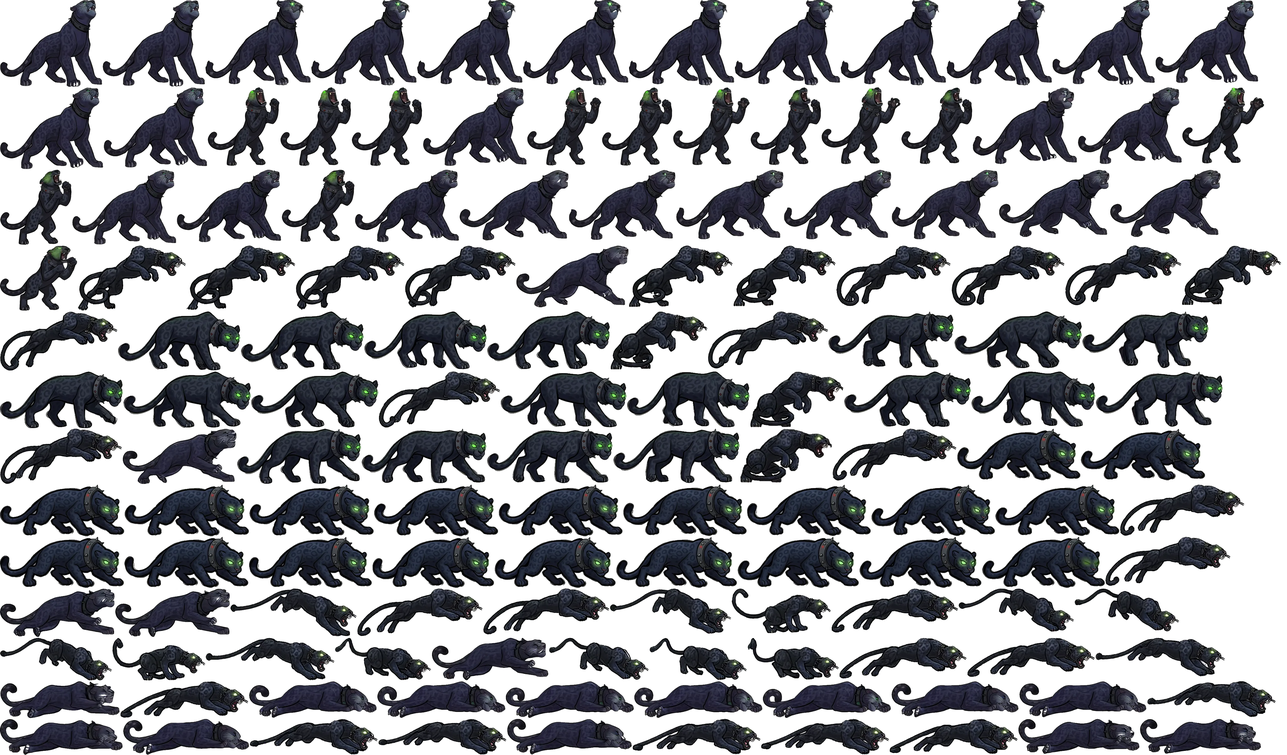
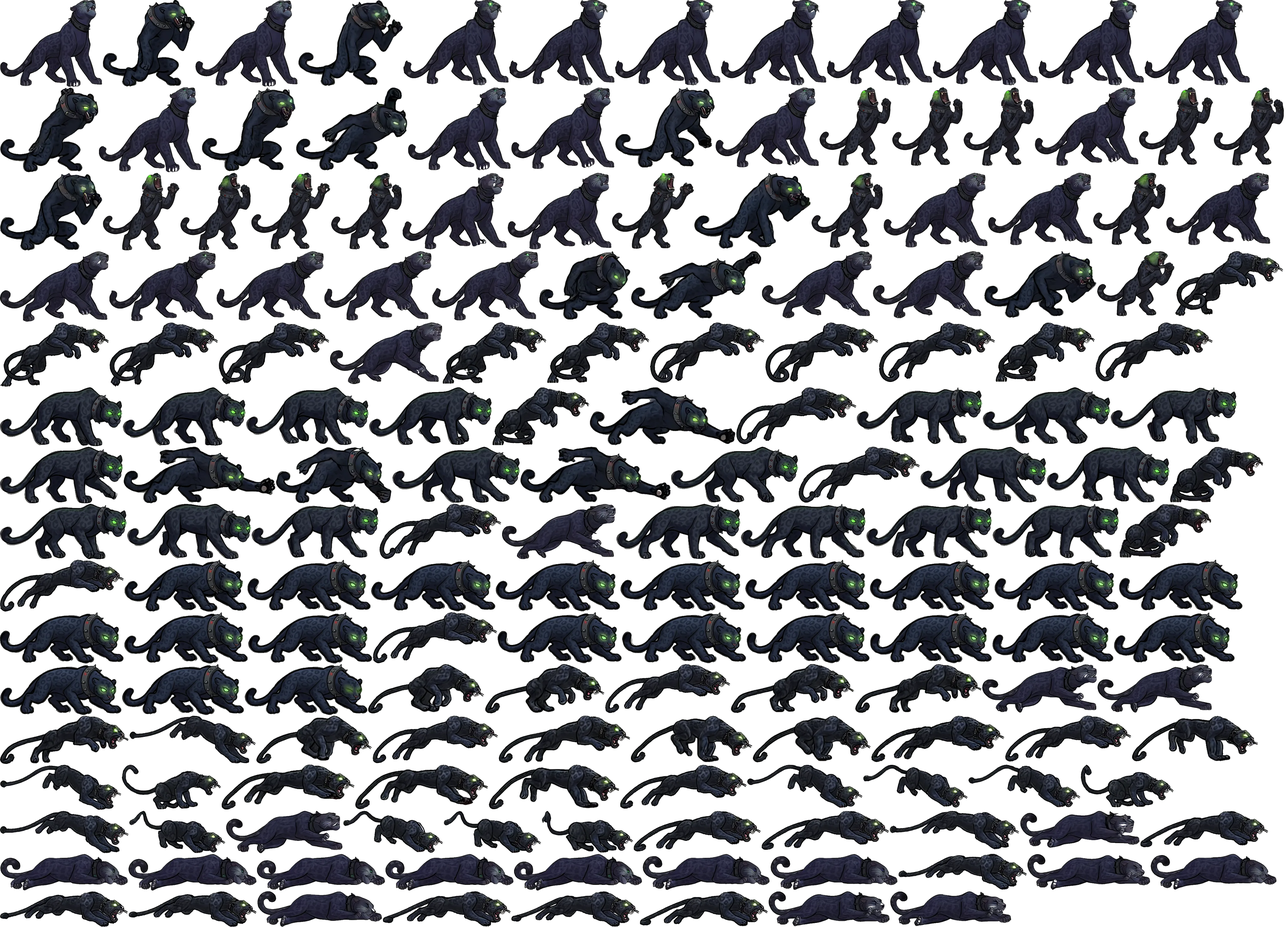
Shadow Prowler: a real gallop for the dash and the phase-two run, and a long claw swipe in the combo
Claude-Session: https://claude.ai/code/session_01Mgg2VZTQ5NrixhRbjjHuvz

diff --git a/src/game/prowlerAnimData.ts b/src/game/prowlerAnimData.ts
@@ -2,7 +2,7 @@
  * ax/ay is the middle of the body on the ground line, sized UP = 2.0 times the old painted frames (draw at k / UP). */
 import type { BossFrameRect } from './paintedBoss.ts';
 export const PROWLER_ANIM_UP = 2.0;
-export const PROWLER_ANIM_SIZE = { w: 4096, h: 2402 };
+export const PROWLER_ANIM_SIZE = { w: 4096, h: 2951 };
 /** the frame names of each move, in order */
-export const PROWLER_CLIPS = {"idle": ["idle_008", "idle_010", "idle_012", "idle_014", "idle_016", "idle_018", "idle_020", "idle_022", "idle_024", "idle_026", "idle_028", "idle_030", "idle_032", "idle_034", "idle_036", "idle_038", "idle_040", "idle_042", "idle_044", "idle_046"], "walk": ["walk_006", "walk_008", "walk_010", "walk_012", "walk_014", "walk_016", "walk_018", "walk_020", "walk_022", "walk_024", "walk_026", "walk_028", "walk_030", "walk_032", "walk_034", "walk_036", "walk_038", "walk_040", "walk_042"], "crouch": ["pounce_000", "pounce_001", "pounce_002", "pounce_003", "pounce_004", "pounce_005", "pounce_006"], "air": ["pounce_007", "pounce_008", "pounce_009", "pounce_010", "pounce_011", "pounce_012", "pounce_013", "pounce_014", "pounce_015", "pounce_016", "pounce_017", "pounce_018", "pounce_019", "pounce_020", "pounce_021", "pounce_022", "pounce_023", "pounce_024", "pounce_025", "pounce_026", "pounce_027", "pounce_028", "pounce_029", "pounce_030"], "land": ["pounce_031", "pounce_033", "pounce_035", "pounce_037", "pounce_039", "pounce_041", "pounce_043", "pounce_045", "pounce_047"], "dash": ["pounce_018", "pounce_020", "pounce_022", "pounce_024", "pounce_026", "pounce_028"], "bite": ["pounce_040", "pounce_042", "pounce_044", "pounce_046", "pounce_048"], "roar": ["roar_000", "roar_002", "roar_004", "roar_006", "roar_008", "roar_010", "roar_012", "roar_014", "roar_016", "roar_018", "roar_020", "roar_022", "roar_024"], "swipe": ["roar_004", "roar_006", "roar_008", "roar_010", "roar_012", "roar_014"], "hurt": ["hurt_000", "hurt_001", "hurt_002", "hurt_003", "hurt_004", "hurt_005", "hurt_006", "hurt_007", "hurt_008", "hurt_009", "hurt_010", "hurt_011", "hurt_012", "hurt_013"], "stagger": ["stagger_004", "stagger_006", "stagger_008", "stagger_010", "stagger_012", "stagger_014", "stagger_016", "stagger_018", "stagger_020"], "defeated": ["defeated_000", "defeated_001", "defeated_002", "defeated_003", "defeated_004", "defeated_005", "defeated_006", "defeated_007", "defeated_008", "defeated_009", "defeated_010", "defeated_011", "defeated_012", "defeated_013", "defeated_014", "defeated_015", "defeated_016", "defeated_017", "defeated_018", "defeated_019", "defeated_020", "defeated_021"]} as const satisfies Record<string, readonly string[]>;
-export const PROWLER_ANIM_FRAMES: Record<string, BossFrameRect> = {"defeated_000": {"x": 563, "y": 540, "w": 332, "h": 231, "ax": 198.4, "ay": 224.2}, "defeated_001": {"x": 1463, "y": 540, "w": 346, "h": 225, "ax": 208.4, "ay": 217.2}, "defeated_002": {"x": 3180, "y": 540, "w": 351, "h": 214, "ax": 210.4, "ay": 205.2}, "defeated_003": {"x": 3533, "y": 540, "w": 352, "h": 214, "ax": 211.4, "ay": 205.2}, "defeated_004": {"x": 1643, "y": 781, "w": 357, "h": 197, "ax": 213.4, "ay": 187.2}, "defeated_005": {"x": 390, "y": 1364, "w": 363, "h": 176, "ax": 221.4, "ay": 166.2}, "defeated_006": {"x": 0, "y": 1872, "w": 365, "h": 155, "ax": 227.4, "ay": 143.2}, "defeated_007": {"x": 367, "y": 1872, "w": 364, "h": 155, "ax": 227.4, "ay": 143.2}, "defeated_008": {"x": 1374, "y": 2029, "w": 371, "h": 135, "ax": 233.4, "ay": 121.2}, "defeated_009": {"x": 0, "y": 2167, "w": 381, "h": 118, "ax": 239.4, "ay": 103.2}, "defeated_010": {"x": 3628, "y": 2287, "w": 385, "h": 111, "ax": 242.4, "ay": 95.2}, "defeated_011": {"x": 3241, "y": 2287, "w": 385, "h": 112, "ax": 242.4, "ay": 95.2}, "defeated_012": {"x": 0, "y": 2287, "w": 390, "h": 115, "ax": 246.4, "ay": 94.2}, "defeated_013": {"x": 1614, "y": 2287, "w": 397, "h": 114, "ax": 250.4, "ay": 90.2}, "defeated_014": {"x": 392, "y": 2287, "w": 401, "h": 115, "ax": 253.4, "ay": 91.2}, "defeated_015": {"x": 2837, "y": 2167, "w": 405, "h": 116, "ax": 256.4, "ay": 92.2}, "defeated_016": {"x": 3244, "y": 2167, "w": 405, "h": 116, "ax": 256.4, "ay": 92.2}, "defeated_017": {"x": 792, "y": 2167, "w": 407, "h": 117, "ax": 258.4, "ay": 92.2}, "defeated_018": {"x": 1201, "y": 2167, "w": 407, "h": 117, "ax": 258.4, "ay": 92.2}, "defeated_019": {"x": 1610, "y": 2167, "w": 407, "h": 117, "ax": 258.4, "ay": 92.2}, "defeated_020": {"x": 2019, "y": 2167, "w": 407, "h": 117, "ax": 258.4, "ay": 92.2}, "defeated_021": {"x": 2428, "y": 2167, "w": 407, "h": 117, "ax": 258.4, "ay": 92.2}, "hurt_000": {"x": 1130, "y": 540, "w": 331, "h": 230, "ax": 198.5, "ay": 224.3}, "hurt_001": {"x": 1811, "y": 540, "w": 339, "h": 223, "ax": 198.5, "ay": 217.3}, "hurt_002": {"x": 2152, "y": 540, "w": 341, "h": 221, "ax": 199.5, "ay": 215.3}, "hurt_003": {"x": 2495, "y": 540, "w": 341, "h": 221, "ax": 199.5, "ay": 215.3}, "hurt_004": {"x": 2838, "y": 540, "w": 340, "h": 221, "ax": 199.5, "ay": 215.3}, "hurt_005": {"x": 3096, "y": 278, "w": 332, "h": 244, "ax": 199.5, "ay": 237.3}, "hurt_006": {"x": 654, "y": 0, "w": 335, "h": 272, "ax": 202.5, "ay": 261.3}, "hurt_007": {"x": 991, "y": 0, "w": 335, "h": 272, "ax": 202.5, "ay": 261.3}, "hurt_008": {"x": 1328, "y": 0, "w": 335, "h": 272, "ax": 202.5, "ay": 261.3}, "hurt_009": {"x": 1665, "y": 0, "w": 335, "h": 272, "ax": 202.5, "ay": 261.3}, "hurt_010": {"x": 2002, "y": 0, "w": 335, "h": 272, "ax": 202.5, "ay": 261.3}, "hurt_011": {"x": 2339, "y": 0, "w": 335, "h": 272, "ax": 202.5, "ay": 261.3}, "hurt_012": {"x": 2676, "y": 0, "w": 335, "h": 272, "ax": 202.5, "ay": 261.3}, "hurt_013": {"x": 3013, "y": 0, "w": 335, "h": 272, "ax": 202.5, "ay": 261.3}, "idle_008": {"x": 3046, "y": 1364, "w": 392, "h": 164, "ax": 219.8, "ay": 146.9}, "idle_010": {"x": 1983, "y": 1542, "w": 393, "h": 163, "ax": 220.8, "ay": 145.9}, "idle_012": {"x": 2378, "y": 1542, "w": 393, "h": 163, "ax": 220.8, "ay": 145.9}, "idle_014": {"x": 0, "y": 1708, "w": 394, "h": 162, "ax": 221.8, "ay": 144.9}, "idle_016": {"x": 396, "y": 1708, "w": 394, "h": 162, "ax": 221.8, "ay": 144.9}, "idle_018": {"x": 792, "y": 1708, "w": 391, "h": 162, "ax": 218.8, "ay": 144.9}, "idle_020": {"x": 1185, "y": 1708, "w": 387, "h": 162, "ax": 214.8, "ay": 144.9}, "idle_022": {"x": 1574, "y": 1708, "w": 385, "h": 162, "ax": 212.8, "ay": 144.9}, "idle_024": {"x": 1961, "y": 1708, "w": 384, "h": 162, "ax": 211.8, "ay": 144.9}, "idle_026": {"x": 2347, "y": 1708, "w": 386, "h": 162, "ax": 213.8, "ay": 144.9}, "idle_028": {"x": 2735, "y": 1708, "w": 388, "h": 162, "ax": 215.8, "ay": 144.9}, "idle_030": {"x": 3125, "y": 1708, "w": 391, "h": 162, "ax": 218.8, "ay": 144.9}, "idle_032": {"x": 2773, "y": 1542, "w": 393, "h": 163, "ax": 220.8, "ay": 145.9}, "idle_034": {"x": 3168, "y": 1542, "w": 394, "h": 163, "ax": 221.8, "ay": 145.9}, "idle_036": {"x": 3440, "y": 1364, "w": 395, "h": 164, "ax": 222.8, "ay": 146.9}, "idle_038": {"x": 0, "y": 1542, "w": 395, "h": 164, "ax": 222.8, "ay": 146.9}, "idle_040": {"x": 397, "y": 1542, "w": 395, "h": 164, "ax": 222.8, "ay": 146.9}, "idle_042": {"x": 794, "y": 1542, "w": 395, "h": 164, "ax": 222.8, "ay": 146.9}, "idle_044": {"x": 1191, "y": 1542, "w": 394, "h": 164, "ax": 221.8, "ay": 146.9}, "idle_046": {"x": 1587, "y": 1542, "w": 394, "h": 164, "ax": 221.8, "ay": 146.9}, "pounce_000": {"x": 2356, "y": 1364, "w": 292, "h": 171, "ax": 146.5, "ay": 167.0}, "pounce_001": {"x": 2388, "y": 1182, "w": 297, "h": 177, "ax": 147.5, "ay": 173.0}, "pounce_002": {"x": 1943, "y": 991, "w": 308, "h": 184, "ax": 152.5, "ay": 180.0}, "pounce_003": {"x": 3762, "y": 781, "w": 315, "h": 189, "ax": 155.5, "ay": 185.0}, "pounce_004": {"x": 2334, "y": 781, "w": 325, "h": 194, "ax": 160.5, "ay": 190.0}, "pounce_005": {"x": 2002, "y": 781, "w": 330, "h": 196, "ax": 162.5, "ay": 193.0}, "pounce_006": {"x": 593, "y": 781, "w": 347, "h": 205, "ax": 170.5, "ay": 202.0}, "pounce_007": {"x": 248, "y": 781, "w": 343, "h": 207, "ax": 165.5, "ay": 204.0}, "pounce_008": {"x": 942, "y": 781, "w": 345, "h": 205, "ax": 162.5, "ay": 207.0}, "pounce_009": {"x": 1289, "y": 781, "w": 352, "h": 198, "ax": 165.5, "ay": 210.0}, "pounce_010": {"x": 3028, "y": 781, "w": 360, "h": 192, "ax": 169.5, "ay": 213.0}, "pounce_011": {"x": 2661, "y": 781, "w": 365, "h": 193, "ax": 171.5, "ay": 215.0}, "pounce_012": {"x": 3390, "y": 781, "w": 370, "h": 190, "ax": 173.5, "ay": 218.0}, "pounce_013": {"x": 0, "y": 991, "w": 374, "h": 189, "ax": 175.5, "ay": 220.0}, "pounce_014": {"x": 2253, "y": 991, "w": 382, "h": 182, "ax": 180.5, "ay": 222.0}, "pounce_015": {"x": 1206, "y": 1182, "w": 386, "h": 178, "ax": 182.5, "ay": 223.0}, "pounce_016": {"x": 0, "y": 1364, "w": 388, "h": 176, "ax": 184.5, "ay": 223.0}, "pounce_017": {"x": 2650, "y": 1364, "w": 394, "h": 165, "ax": 189.5, "ay": 223.0}, "pounce_018": {"x": 3564, "y": 1542, "w": 396, "h": 163, "ax": 191.5, "ay": 223.0}, "pounce_019": {"x": 3518, "y": 1708, "w": 398, "h": 156, "ax": 193.5, "ay": 223.0}, "pounce_020": {"x": 1137, "y": 1872, "w": 399, "h": 152, "ax": 194.5, "ay": 223.0}, "pounce_021": {"x": 1538, "y": 1872, "w": 401, "h": 147, "ax": 196.5, "ay": 222.0}, "pounce_022": {"x": 2646, "y": 1872, "w": 403, "h": 141, "ax": 198.5, "ay": 221.0}, "pounce_023": {"x": 2672, "y": 2029, "w": 404, "h": 130, "ax": 199.5, "ay": 217.0}, "pounce_024": {"x": 3078, "y": 2029, "w": 406, "h": 125, "ax": 201.5, "ay": 215.0}, "pounce_025": {"x": 383, "y": 2167, "w": 407, "h": 117, "ax": 202.5, "ay": 212.0}, "pounce_026": {"x": 2831, "y": 2287, "w": 408, "h": 112, "ax": 203.5, "ay": 209.0}, "pounce_027": {"x": 2013, "y": 2287, "w": 407, "h": 113, "ax": 203.5, "ay": 205.0}, "pounce_028": {"x": 2422, "y": 2287, "w": 407, "h": 113, "ax": 203.5, "ay": 203.0}, "pounce_029": {"x": 795, "y": 2287, "w": 407, "h": 114, "ax": 203.5, "ay": 199.0}, "pounce_030": {"x": 1204, "y": 2287, "w": 408, "h": 114, "ax": 204.5, "ay": 196.0}, "pounce_031": {"x": 3651, "y": 2167, "w": 409, "h": 115, "ax": 206.5, "ay": 188.0}, "pounce_033": {"x": 3486, "y": 2029, "w": 413, "h": 123, "ax": 209.5, "ay": 182.0}, "pounce_035": {"x": 655, "y": 2029, "w": 409, "h": 135, "ax": 209.5, "ay": 179.0}, "pounce_037": {"x": 733, "y": 1872, "w": 402, "h": 153, "ax": 209.5, "ay": 172.0}, "pounce_039": {"x": 1941, "y": 1872, "w": 386, "h": 145, "ax": 199.5, "ay": 163.0}, "pounce_040": {"x": 3051, "y": 1872, "w": 367, "h": 138, "ax": 187.5, "ay": 156.0}, "pounce_041": {"x": 0, "y": 2029, "w": 356, "h": 136, "ax": 179.5, "ay": 154.0}, "pounce_042": {"x": 3420, "y": 1872, "w": 333, "h": 137, "ax": 158.5, "ay": 152.0}, "pounce_043": {"x": 1747, "y": 2029, "w": 318, "h": 134, "ax": 142.5, "ay": 151.0}, "pounce_044": {"x": 2067, "y": 2029, "w": 310, "h": 134, "ax": 131.5, "ay": 155.0}, "pounce_045": {"x": 1066, "y": 2029, "w": 306, "h": 135, "ax": 125.5, "ay": 156.0}, "pounce_046": {"x": 2379, "y": 2029, "w": 291, "h": 133, "ax": 108.5, "ay": 156.0}, "pounce_047": {"x": 358, "y": 2029, "w": 295, "h": 136, "ax": 106.5, "ay": 160.0}, "pounce_048": {"x": 2329, "y": 1872, "w": 315, "h": 143, "ax": 121.5, "ay": 167.0}, "roar_000": {"x": 3763, "y": 278, "w": 260, "h": 242, "ax": 144.1, "ay": 239.1}, "roar_002": {"x": 2615, "y": 278, "w": 251, "h": 244, "ax": 143.1, "ay": 241.1}, "roar_004": {"x": 2142, "y": 278, "w": 244, "h": 247, "ax": 143.1, "ay": 244.1}, "roar_006": {"x": 1678, "y": 278, "w": 236, "h": 249, "ax": 142.1, "ay": 245.1}, "roar_008": {"x": 661, "y": 278, "w": 229, "h": 250, "ax": 142.1, "ay": 246.1}, "roar_010": {"x": 892, "y": 278, "w": 225, "h": 250, "ax": 142.1, "ay": 246.1}, "roar_012": {"x": 1119, "y": 278, "w": 225, "h": 250, "ax": 142.1, "ay": 246.1}, "roar_014": {"x": 1916, "y": 278, "w": 224, "h": 249, "ax": 141.1, "ay": 245.1}, "roar_016": {"x": 2388, "y": 278, "w": 225, "h": 247, "ax": 142.1, "ay": 243.1}, "roar_018": {"x": 2868, "y": 278, "w": 226, "h": 244, "ax": 142.1, "ay": 240.1}, "roar_020": {"x": 0, "y": 540, "w": 228, "h": 239, "ax": 142.1, "ay": 235.1}, "roar_022": {"x": 897, "y": 540, "w": 231, "h": 230, "ax": 142.1, "ay": 226.1}, "roar_024": {"x": 0, "y": 781, "w": 246, "h": 208, "ax": 145.1, "ay": 204.1}, "stagger_004": {"x": 230, "y": 540, "w": 331, "h": 238, "ax": 198.2, "ay": 231.3}, "stagger_006": {"x": 3430, "y": 278, "w": 331, "h": 244, "ax": 198.2, "ay": 237.3}, "stagger_008": {"x": 1346, "y": 278, "w": 330, "h": 250, "ax": 197.2, "ay": 243.3}, "stagger_010": {"x": 330, "y": 278, "w": 329, "h": 255, "ax": 196.2, "ay": 248.3}, "stagger_012": {"x": 0, "y": 278, "w": 328, "h": 260, "ax": 195.2, "ay": 253.3}, "stagger_014": {"x": 3677, "y": 0, "w": 327, "h": 264, "ax": 194.2, "ay": 257.3}, "stagger_016": {"x": 3350, "y": 0, "w": 325, "h": 270, "ax": 192.2, "ay": 261.3}, "stagger_018": {"x": 327, "y": 0, "w": 325, "h": 275, "ax": 192.2, "ay": 266.3}, "stagger_020": {"x": 0, "y": 0, "w": 325, "h": 276, "ax": 192.2, "ay": 267.3}, "walk_006": {"x": 2637, "y": 991, "w": 399, "h": 181, "ax": 220.7, "ay": 166.2}, "walk_008": {"x": 3445, "y": 991, "w": 401, "h": 180, "ax": 223.7, "ay": 164.2}, "walk_010": {"x": 2687, "y": 1182, "w": 403, "h": 176, "ax": 225.7, "ay": 165.2}, "walk_012": {"x": 800, "y": 1182, "w": 404, "h": 178, "ax": 226.7, "ay": 167.2}, "walk_014": {"x": 3038, "y": 991, "w": 405, "h": 181, "ax": 227.7, "ay": 168.2}, "walk_016": {"x": 393, "y": 1182, "w": 405, "h": 179, "ax": 226.7, "ay": 166.2}, "walk_018": {"x": 1594, "y": 1182, "w": 400, "h": 177, "ax": 220.7, "ay": 162.2}, "walk_020": {"x": 3092, "y": 1182, "w": 394, "h": 176, "ax": 215.7, "ay": 159.2}, "walk_022": {"x": 1996, "y": 1182, "w": 390, "h": 177, "ax": 212.7, "ay": 160.2}, "walk_024": {"x": 1160, "y": 991, "w": 389, "h": 184, "ax": 212.7, "ay": 166.2}, "walk_026": {"x": 376, "y": 991, "w": 389, "h": 187, "ax": 213.7, "ay": 170.2}, "walk_028": {"x": 767, "y": 991, "w": 391, "h": 186, "ax": 215.7, "ay": 171.2}, "walk_030": {"x": 1551, "y": 991, "w": 390, "h": 184, "ax": 215.7, "ay": 169.2}, "walk_032": {"x": 0, "y": 1182, "w": 391, "h": 180, "ax": 215.7, "ay": 166.2}, "walk_034": {"x": 755, "y": 1364, "w": 394, "h": 175, "ax": 215.7, "ay": 161.2}, "walk_036": {"x": 1151, "y": 1364, "w": 397, "h": 173, "ax": 216.7, "ay": 160.2}, "walk_038": {"x": 1550, "y": 1364, "w": 400, "h": 173, "ax": 218.7, "ay": 160.2}, "walk_040": {"x": 1952, "y": 1364, "w": 402, "h": 173, "ax": 220.7, "ay": 160.2}, "walk_042": {"x": 3488, "y": 1182, "w": 404, "h": 176, "ax": 222.7, "ay": 161.2}};
+export const PROWLER_CLIPS = {"idle": ["idle_008", "idle_010", "idle_012", "idle_014", "idle_016", "idle_018", "idle_020", "idle_022", "idle_024", "idle_026", "idle_028", "idle_030", "idle_032", "idle_034", "idle_036", "idle_038", "idle_040", "idle_042", "idle_044", "idle_046"], "walk": ["walk_006", "walk_008", "walk_010", "walk_012", "walk_014", "walk_016", "walk_018", "walk_020", "walk_022", "walk_024", "walk_026", "walk_028", "walk_030", "walk_032", "walk_034", "walk_036", "walk_038", "walk_040", "walk_042"], "crouch": ["pounce_000", "pounce_001", "pounce_002", "pounce_003", "pounce_004", "pounce_005", "pounce_006"], "air": ["pounce_007", "pounce_008", "pounce_009", "pounce_010", "pounce_011", "pounce_012", "pounce_013", "pounce_014", "pounce_015", "pounce_016", "pounce_017", "pounce_018", "pounce_019", "pounce_020", "pounce_021", "pounce_022", "pounce_023", "pounce_024", "pounce_025", "pounce_026", "pounce_027", "pounce_028", "pounce_029", "pounce_030"], "land": ["pounce_031", "pounce_033", "pounce_035", "pounce_037", "pounce_039", "pounce_041", "pounce_043", "pounce_045", "pounce_047"], "dash": ["gallop11_000", "gallop11_002", "gallop11_004", "gallop11_006", "gallop11_008", "gallop11_010", "gallop11_012", "gallop11_014", "gallop11_016", "gallop11_018", "gallop11_020", "gallop11_022", "gallop11_024", "gallop11_026"], "claw": ["swat3_003", "swat3_004", "swat3_005", "swat3_006", "swat3_007", "swat3_008", "swat3_009", "swat3_010", "swat3_011", "swat3_012"], "bite": ["pounce_040", "pounce_042", "pounce_044", "pounce_046", "pounce_048"], "roar": ["roar_000", "roar_002", "roar_004", "roar_006", "roar_008", "roar_010", "roar_012", "roar_014", "roar_016", "roar_018", "roar_020", "roar_022", "roar_024"], "swipe": ["swat3_026", "swat3_028", "swat3_030", "swat3_032", "swat3_034", "swat3_036"], "hurt": ["hurt_000", "hurt_001", "hurt_002", "hurt_003", "hurt_004", "hurt_005", "hurt_006", "hurt_007", "hurt_008", "hurt_009", "hurt_010", "hurt_011", "hurt_012", "hurt_013"], "stagger": ["stagger_004", "stagger_006", "stagger_008", "stagger_010", "stagger_012", "stagger_014", "stagger_016", "stagger_018", "stagger_020"], "defeated": ["defeated_000", "defeated_001", "defeated_002", "defeated_003", "defeated_004", "defeated_005", "defeated_006", "defeated_007", "defeated_008", "defeated_009", "defeated_010", "defeated_011", "defeated_012", "defeated_013", "defeated_014", "defeated_015", "defeated_016", "defeated_017", "defeated_018", "defeated_019", "defeated_020", "defeated_021"]} as const satisfies Record<string, readonly string[]>;
+export const PROWLER_ANIM_FRAMES: Record<string, BossFrameRect> = {"defeated_000": {"x": 3145, "y": 550, "w": 332, "h": 231, "ax": 198.4, "ay": 224.2}, "defeated_001": {"x": 0, "y": 799, "w": 346, "h": 225, "ax": 208.4, "ay": 217.2}, "defeated_002": {"x": 2425, "y": 799, "w": 351, "h": 214, "ax": 210.4, "ay": 205.2}, "defeated_003": {"x": 2778, "y": 799, "w": 352, "h": 214, "ax": 211.4, "ay": 205.2}, "defeated_004": {"x": 1050, "y": 1026, "w": 357, "h": 197, "ax": 213.4, "ay": 187.2}, "defeated_005": {"x": 1597, "y": 1604, "w": 363, "h": 176, "ax": 221.4, "ay": 166.2}, "defeated_006": {"x": 3126, "y": 2114, "w": 365, "h": 155, "ax": 227.4, "ay": 143.2}, "defeated_007": {"x": 3493, "y": 2114, "w": 364, "h": 155, "ax": 227.4, "ay": 143.2}, "defeated_008": {"x": 719, "y": 2581, "w": 371, "h": 135, "ax": 233.4, "ay": 121.2}, "defeated_009": {"x": 3246, "y": 2581, "w": 381, "h": 118, "ax": 239.4, "ay": 103.2}, "defeated_010": {"x": 2833, "y": 2837, "w": 385, "h": 111, "ax": 242.4, "ay": 95.2}, "defeated_011": {"x": 2446, "y": 2837, "w": 385, "h": 112, "ax": 242.4, "ay": 95.2}, "defeated_012": {"x": 3270, "y": 2718, "w": 390, "h": 115, "ax": 246.4, "ay": 94.2}, "defeated_013": {"x": 819, "y": 2837, "w": 397, "h": 114, "ax": 250.4, "ay": 90.2}, "defeated_014": {"x": 3662, "y": 2718, "w": 401, "h": 115, "ax": 253.4, "ay": 91.2}, "defeated_015": {"x": 2045, "y": 2718, "w": 405, "h": 116, "ax": 256.4, "ay": 92.2}, "defeated_016": {"x": 2452, "y": 2718, "w": 405, "h": 116, "ax": 256.4, "ay": 92.2}, "defeated_017": {"x": 0, "y": 2718, "w": 407, "h": 117, "ax": 258.4, "ay": 92.2}, "defeated_018": {"x": 409, "y": 2718, "w": 407, "h": 117, "ax": 258.4, "ay": 92.2}, "defeated_019": {"x": 818, "y": 2718, "w": 407, "h": 117, "ax": 258.4, "ay": 92.2}, "defeated_020": {"x": 1227, "y": 2718, "w": 407, "h": 117, "ax": 258.4, "ay": 92.2}, "defeated_021": {"x": 1636, "y": 2718, "w": 407, "h": 117, "ax": 258.4, "ay": 92.2}, "gallop11_000": {"x": 2773, "y": 2278, "w": 424, "h": 148, "ax": 224.9, "ay": 148.8}, "gallop11_002": {"x": 705, "y": 2434, "w": 423, "h": 143, "ax": 219.9, "ay": 144.8}, "gallop11_004": {"x": 1130, "y": 2434, "w": 423, "h": 142, "ax": 217.9, "ay": 143.8}, "gallop11_006": {"x": 1555, "y": 2434, "w": 416, "h": 142, "ax": 217.9, "ay": 143.8}, "gallop11_008": {"x": 3602, "y": 2278, "w": 402, "h": 146, "ax": 216.9, "ay": 146.8}, "gallop11_010": {"x": 2007, "y": 2278, "w": 387, "h": 149, "ax": 215.9, "ay": 149.8}, "gallop11_012": {"x": 2396, "y": 2278, "w": 375, "h": 149, "ax": 213.9, "ay": 149.8}, "gallop11_014": {"x": 816, "y": 2278, "w": 368, "h": 153, "ax": 213.9, "ay": 153.8}, "gallop11_016": {"x": 1171, "y": 2114, "w": 370, "h": 157, "ax": 217.9, "ay": 156.8}, "gallop11_018": {"x": 1543, "y": 2114, "w": 381, "h": 157, "ax": 222.9, "ay": 156.8}, "gallop11_020": {"x": 2326, "y": 2114, "w": 394, "h": 156, "ax": 224.9, "ay": 155.8}, "gallop11_022": {"x": 2722, "y": 2114, "w": 402, "h": 155, "ax": 225.9, "ay": 155.8}, "gallop11_024": {"x": 0, "y": 2278, "w": 410, "h": 154, "ax": 225.9, "ay": 154.8}, "gallop11_026": {"x": 1587, "y": 2278, "w": 418, "h": 151, "ax": 225.9, "ay": 151.8}, "hurt_000": {"x": 3712, "y": 550, "w": 331, "h": 230, "ax": 198.5, "ay": 224.3}, "hurt_001": {"x": 348, "y": 799, "w": 339, "h": 223, "ax": 198.5, "ay": 217.3}, "hurt_002": {"x": 689, "y": 799, "w": 341, "h": 221, "ax": 199.5, "ay": 215.3}, "hurt_003": {"x": 1032, "y": 799, "w": 341, "h": 221, "ax": 199.5, "ay": 215.3}, "hurt_004": {"x": 1375, "y": 799, "w": 340, "h": 221, "ax": 199.5, "ay": 215.3}, "hurt_005": {"x": 1281, "y": 550, "w": 332, "h": 244, "ax": 199.5, "ay": 237.3}, "hurt_006": {"x": 1284, "y": 0, "w": 335, "h": 272, "ax": 202.5, "ay": 261.3}, "hurt_007": {"x": 1621, "y": 0, "w": 335, "h": 272, "ax": 202.5, "ay": 261.3}, "hurt_008": {"x": 1958, "y": 0, "w": 335, "h": 272, "ax": 202.5, "ay": 261.3}, "hurt_009": {"x": 2295, "y": 0, "w": 335, "h": 272, "ax": 202.5, "ay": 261.3}, "hurt_010": {"x": 2632, "y": 0, "w": 335, "h": 272, "ax": 202.5, "ay": 261.3}, "hurt_011": {"x": 2969, "y": 0, "w": 335, "h": 272, "ax": 202.5, "ay": 261.3}, "hurt_012": {"x": 3306, "y": 0, "w": 335, "h": 272, "ax": 202.5, "ay": 261.3}, "hurt_013": {"x": 3643, "y": 0, "w": 335, "h": 272, "ax": 202.5, "ay": 261.3}, "idle_008": {"x": 787, "y": 1782, "w": 392, "h": 164, "ax": 219.8, "ay": 146.9}, "idle_010": {"x": 3561, "y": 1782, "w": 393, "h": 163, "ax": 220.8, "ay": 145.9}, "idle_012": {"x": 0, "y": 1949, "w": 393, "h": 163, "ax": 220.8, "ay": 145.9}, "idle_014": {"x": 1584, "y": 1949, "w": 394, "h": 162, "ax": 221.8, "ay": 144.9}, "idle_016": {"x": 1980, "y": 1949, "w": 394, "h": 162, "ax": 221.8, "ay": 144.9}, "idle_018": {"x": 2376, "y": 1949, "w": 391, "h": 162, "ax": 218.8, "ay": 144.9}, "idle_020": {"x": 2769, "y": 1949, "w": 387, "h": 162, "ax": 214.8, "ay": 144.9}, "idle_022": {"x": 3158, "y": 1949, "w": 385, "h": 162, "ax": 212.8, "ay": 144.9}, "idle_024": {"x": 3545, "y": 1949, "w": 384, "h": 162, "ax": 211.8, "ay": 144.9}, "idle_026": {"x": 0, "y": 2114, "w": 386, "h": 162, "ax": 213.8, "ay": 144.9}, "idle_028": {"x": 388, "y": 2114, "w": 388, "h": 162, "ax": 215.8, "ay": 144.9}, "idle_030": {"x": 778, "y": 2114, "w": 391, "h": 162, "ax": 218.8, "ay": 144.9}, "idle_032": {"x": 395, "y": 1949, "w": 393, "h": 163, "ax": 220.8, "ay": 145.9}, "idle_034": {"x": 790, "y": 1949, "w": 394, "h": 163, "ax": 221.8, "ay": 145.9}, "idle_036": {"x": 1181, "y": 1782, "w": 395, "h": 164, "ax": 222.8, "ay": 146.9}, "idle_038": {"x": 1578, "y": 1782, "w": 395, "h": 164, "ax": 222.8, "ay": 146.9}, "idle_040": {"x": 1975, "y": 1782, "w": 395, "h": 164, "ax": 222.8, "ay": 146.9}, "idle_042": {"x": 2372, "y": 1782, "w": 395, "h": 164, "ax": 222.8, "ay": 146.9}, "idle_044": {"x": 2769, "y": 1782, "w": 394, "h": 164, "ax": 221.8, "ay": 146.9}, "idle_046": {"x": 3165, "y": 1782, "w": 394, "h": 164, "ax": 221.8, "ay": 146.9}, "pounce_000": {"x": 3563, "y": 1604, "w": 292, "h": 171, "ax": 146.5, "ay": 167.0}, "pounce_001": {"x": 3724, "y": 1422, "w": 297, "h": 177, "ax": 147.5, "ay": 173.0}, "pounce_002": {"x": 1567, "y": 1233, "w": 308, "h": 184, "ax": 152.5, "ay": 180.0}, "pounce_003": {"x": 3169, "y": 1026, "w": 315, "h": 189, "ax": 155.5, "ay": 185.0}, "pounce_004": {"x": 1741, "y": 1026, "w": 325, "h": 194, "ax": 160.5, "ay": 190.0}, "pounce_005": {"x": 1409, "y": 1026, "w": 330, "h": 196, "ax": 162.5, "ay": 193.0}, "pounce_006": {"x": 0, "y": 1026, "w": 347, "h": 205, "ax": 170.5, "ay": 202.0}, "pounce_007": {"x": 3740, "y": 799, "w": 343, "h": 207, "ax": 165.5, "ay": 204.0}, "pounce_008": {"x": 349, "y": 1026, "w": 345, "h": 205, "ax": 162.5, "ay": 207.0}, "pounce_009": {"x": 696, "y": 1026, "w": 352, "h": 198, "ax": 165.5, "ay": 210.0}, "pounce_010": {"x": 2435, "y": 1026, "w": 360, "h": 192, "ax": 169.5, "ay": 213.0}, "pounce_011": {"x": 2068, "y": 1026, "w": 365, "h": 193, "ax": 171.5, "ay": 215.0}, "pounce_012": {"x": 2797, "y": 1026, "w": 370, "h": 190, "ax": 173.5, "ay": 218.0}, "pounce_013": {"x": 3486, "y": 1026, "w": 374, "h": 189, "ax": 175.5, "ay": 220.0}, "pounce_014": {"x": 2343, "y": 1233, "w": 382, "h": 182, "ax": 180.5, "ay": 222.0}, "pounce_015": {"x": 2542, "y": 1422, "w": 386, "h": 178, "ax": 182.5, "ay": 223.0}, "pounce_016": {"x": 1207, "y": 1604, "w": 388, "h": 176, "ax": 184.5, "ay": 223.0}, "pounce_017": {"x": 0, "y": 1782, "w": 394, "h": 165, "ax": 189.5, "ay": 223.0}, "pounce_018": {"x": 1186, "y": 1949, "w": 396, "h": 163, "ax": 191.5, "ay": 223.0}, "pounce_019": {"x": 1926, "y": 2114, "w": 398, "h": 156, "ax": 193.5, "ay": 223.0}, "pounce_020": {"x": 1186, "y": 2278, "w": 399, "h": 152, "ax": 194.5, "ay": 223.0}, "pounce_021": {"x": 3199, "y": 2278, "w": 401, "h": 147, "ax": 196.5, "ay": 222.0}, "pounce_022": {"x": 1973, "y": 2434, "w": 403, "h": 141, "ax": 198.5, "ay": 221.0}, "pounce_023": {"x": 2017, "y": 2581, "w": 404, "h": 130, "ax": 199.5, "ay": 217.0}, "pounce_024": {"x": 2423, "y": 2581, "w": 406, "h": 125, "ax": 201.5, "ay": 215.0}, "pounce_025": {"x": 3629, "y": 2581, "w": 407, "h": 117, "ax": 202.5, "ay": 212.0}, "pounce_026": {"x": 2036, "y": 2837, "w": 408, "h": 112, "ax": 203.5, "ay": 209.0}, "pounce_027": {"x": 1218, "y": 2837, "w": 407, "h": 113, "ax": 203.5, "ay": 205.0}, "pounce_028": {"x": 1627, "y": 2837, "w": 407, "h": 113, "ax": 203.5, "ay": 203.0}, "pounce_029": {"x": 0, "y": 2837, "w": 407, "h": 114, "ax": 203.5, "ay": 199.0}, "pounce_030": {"x": 409, "y": 2837, "w": 408, "h": 114, "ax": 204.5, "ay": 196.0}, "pounce_031": {"x": 2859, "y": 2718, "w": 409, "h": 115, "ax": 206.5, "ay": 188.0}, "pounce_033": {"x": 2831, "y": 2581, "w": 413, "h": 123, "ax": 209.5, "ay": 182.0}, "pounce_035": {"x": 0, "y": 2581, "w": 409, "h": 135, "ax": 209.5, "ay": 179.0}, "pounce_037": {"x": 412, "y": 2278, "w": 402, "h": 153, "ax": 209.5, "ay": 172.0}, "pounce_039": {"x": 0, "y": 2434, "w": 386, "h": 145, "ax": 199.5, "ay": 163.0}, "pounce_040": {"x": 2378, "y": 2434, "w": 367, "h": 138, "ax": 187.5, "ay": 156.0}, "pounce_041": {"x": 3082, "y": 2434, "w": 356, "h": 136, "ax": 179.5, "ay": 154.0}, "pounce_042": {"x": 2747, "y": 2434, "w": 333, "h": 137, "ax": 158.5, "ay": 152.0}, "pounce_043": {"x": 1092, "y": 2581, "w": 318, "h": 134, "ax": 142.5, "ay": 151.0}, "pounce_044": {"x": 1412, "y": 2581, "w": 310, "h": 134, "ax": 131.5, "ay": 155.0}, "pounce_045": {"x": 411, "y": 2581, "w": 306, "h": 135, "ax": 125.5, "ay": 156.0}, "pounce_046": {"x": 1724, "y": 2581, "w": 291, "h": 133, "ax": 108.5, "ay": 156.0}, "pounce_047": {"x": 3440, "y": 2434, "w": 295, "h": 136, "ax": 106.5, "ay": 160.0}, "pounce_048": {"x": 388, "y": 2434, "w": 315, "h": 143, "ax": 121.5, "ay": 167.0}, "roar_000": {"x": 1948, "y": 550, "w": 260, "h": 242, "ax": 144.1, "ay": 239.1}, "roar_002": {"x": 800, "y": 550, "w": 251, "h": 244, "ax": 143.1, "ay": 241.1}, "roar_004": {"x": 327, "y": 550, "w": 244, "h": 247, "ax": 143.1, "ay": 244.1}, "roar_006": {"x": 3625, "y": 278, "w": 236, "h": 249, "ax": 142.1, "ay": 245.1}, "roar_008": {"x": 2608, "y": 278, "w": 229, "h": 250, "ax": 142.1, "ay": 246.1}, "roar_010": {"x": 2839, "y": 278, "w": 225, "h": 250, "ax": 142.1, "ay": 246.1}, "roar_012": {"x": 3066, "y": 278, "w": 225, "h": 250, "ax": 142.1, "ay": 246.1}, "roar_014": {"x": 3863, "y": 278, "w": 224, "h": 249, "ax": 141.1, "ay": 245.1}, "roar_016": {"x": 573, "y": 550, "w": 225, "h": 247, "ax": 142.1, "ay": 243.1}, "roar_018": {"x": 1053, "y": 550, "w": 226, "h": 244, "ax": 142.1, "ay": 240.1}, "roar_020": {"x": 2582, "y": 550, "w": 228, "h": 239, "ax": 142.1, "ay": 235.1}, "roar_022": {"x": 3479, "y": 550, "w": 231, "h": 230, "ax": 142.1, "ay": 226.1}, "roar_024": {"x": 3492, "y": 799, "w": 246, "h": 208, "ax": 145.1, "ay": 204.1}, "stagger_004": {"x": 2812, "y": 550, "w": 331, "h": 238, "ax": 198.2, "ay": 231.3}, "stagger_006": {"x": 1615, "y": 550, "w": 331, "h": 244, "ax": 198.2, "ay": 237.3}, "stagger_008": {"x": 3293, "y": 278, "w": 330, "h": 250, "ax": 197.2, "ay": 243.3}, "stagger_010": {"x": 2277, "y": 278, "w": 329, "h": 255, "ax": 196.2, "ay": 248.3}, "stagger_012": {"x": 1627, "y": 278, "w": 328, "h": 260, "ax": 195.2, "ay": 253.3}, "stagger_014": {"x": 1298, "y": 278, "w": 327, "h": 264, "ax": 194.2, "ay": 257.3}, "stagger_016": {"x": 315, "y": 278, "w": 325, "h": 270, "ax": 192.2, "ay": 261.3}, "stagger_018": {"x": 622, "y": 0, "w": 325, "h": 275, "ax": 192.2, "ay": 266.3}, "stagger_020": {"x": 0, "y": 0, "w": 325, "h": 276, "ax": 192.2, "ay": 267.3}, "swat3_003": {"x": 1957, "y": 278, "w": 318, "h": 255, "ax": 225.7, "ay": 240.8}, "swat3_004": {"x": 642, "y": 278, "w": 298, "h": 267, "ax": 224.7, "ay": 251.8}, "swat3_005": {"x": 0, "y": 278, "w": 313, "h": 270, "ax": 225.7, "ay": 254.8}, "swat3_006": {"x": 942, "y": 278, "w": 354, "h": 264, "ax": 225.7, "ay": 248.8}, "swat3_007": {"x": 2008, "y": 799, "w": 415, "h": 217, "ax": 222.7, "ay": 201.8}, "swat3_008": {"x": 393, "y": 1422, "w": 483, "h": 180, "ax": 212.7, "ay": 164.8}, "swat3_009": {"x": 1656, "y": 1422, "w": 478, "h": 179, "ax": 208.7, "ay": 163.8}, "swat3_010": {"x": 1877, "y": 1233, "w": 464, "h": 184, "ax": 206.7, "ay": 168.8}, "swat3_011": {"x": 878, "y": 1422, "w": 369, "h": 180, "ax": 212.7, "ay": 164.8}, "swat3_012": {"x": 1717, "y": 799, "w": 289, "h": 218, "ax": 228.7, "ay": 203.8}, "swat3_026": {"x": 396, "y": 1782, "w": 389, "h": 165, "ax": 216.7, "ay": 149.8}, "swat3_028": {"x": 2210, "y": 550, "w": 370, "h": 241, "ax": 228.7, "ay": 226.8}, "swat3_030": {"x": 949, "y": 0, "w": 333, "h": 273, "ax": 222.7, "ay": 258.8}, "swat3_032": {"x": 327, "y": 0, "w": 293, "h": 275, "ax": 212.7, "ay": 260.8}, "swat3_034": {"x": 0, "y": 550, "w": 325, "h": 247, "ax": 215.7, "ay": 232.8}, "swat3_036": {"x": 3132, "y": 799, "w": 358, "h": 212, "ax": 217.7, "ay": 197.8}, "walk_006": {"x": 2727, "y": 1233, "w": 399, "h": 181, "ax": 220.7, "ay": 166.2}, "walk_008": {"x": 3535, "y": 1233, "w": 401, "h": 180, "ax": 223.7, "ay": 164.2}, "walk_010": {"x": 0, "y": 1604, "w": 403, "h": 176, "ax": 225.7, "ay": 165.2}, "walk_012": {"x": 2136, "y": 1422, "w": 404, "h": 178, "ax": 226.7, "ay": 167.2}, "walk_014": {"x": 3128, "y": 1233, "w": 405, "h": 181, "ax": 227.7, "ay": 168.2}, "walk_016": {"x": 1249, "y": 1422, "w": 405, "h": 179, "ax": 226.7, "ay": 166.2}, "walk_018": {"x": 2930, "y": 1422, "w": 400, "h": 177, "ax": 220.7, "ay": 162.2}, "walk_020": {"x": 405, "y": 1604, "w": 394, "h": 176, "ax": 215.7, "ay": 159.2}, "walk_022": {"x": 3332, "y": 1422, "w": 390, "h": 177, "ax": 212.7, "ay": 160.2}, "walk_024": {"x": 784, "y": 1233, "w": 389, "h": 184, "ax": 212.7, "ay": 166.2}, "walk_026": {"x": 0, "y": 1233, "w": 389, "h": 187, "ax": 213.7, "ay": 170.2}, "walk_028": {"x": 391, "y": 1233, "w": 391, "h": 186, "ax": 215.7, "ay": 171.2}, "walk_030": {"x": 1175, "y": 1233, "w": 390, "h": 184, "ax": 215.7, "ay": 169.2}, "walk_032": {"x": 0, "y": 1422, "w": 391, "h": 180, "ax": 215.7, "ay": 166.2}, "walk_034": {"x": 1962, "y": 1604, "w": 394, "h": 175, "ax": 215.7, "ay": 161.2}, "walk_036": {"x": 2358, "y": 1604, "w": 397, "h": 173, "ax": 216.7, "ay": 160.2}, "walk_038": {"x": 2757, "y": 1604, "w": 400, "h": 173, "ax": 218.7, "ay": 160.2}, "walk_040": {"x": 3159, "y": 1604, "w": 402, "h": 173, "ax": 220.7, "ay": 160.2}, "walk_042": {"x": 801, "y": 1604, "w": 404, "h": 176, "ax": 222.7, "ay": 161.2}};

diff --git a/src/game/prowlerSprite.ts b/src/game/prowlerSprite.ts
@@ -5,13 +5,10 @@
  * otherwise.
  *
  * The clips follow the boss brain: breathing low while he waits, a prowling walk, the coiled crouch before a pounce, the long leap and
- * the landing, the rear-up roar (on a phase change and before the claw combo), raised paws and snapping jaws in the combo, the stretched
- * leap held low for the dash, the flinch, the dazed rearing when stunned and the slow collapse. The shadow step fades the cat out through
- * the boss alpha, so it needs no frame of its own. The frames are drawn at the old frames' size, so the weak points measured off the old
+ * the landing, the rear-up roar (on a phase change and before the claw combo), a long claw swipe and snapping jaws in the combo, a
+ * flat-out gallop for the dash and for running from phase 2, the flinch, the dazed rearing when stunned and the slow collapse. The
+ * shadow step fades the cat out through the boss alpha, so it needs no frame of its own. The frames are drawn at the old frames' size, so the weak points measured off the old
  * poses (bossDefs.ts) still sit where the glow is.
- *
- * Still to come: a gallop and a true claw swipe (both clips failed and are being redone); the dash and the swipe borrow from the pounce
- * and the roar until then.
  */
 import { createPaintedBoss } from './paintedBoss.ts';
 import { PROWLER_ANIM_FRAMES, PROWLER_ANIM_UP, PROWLER_CLIPS } from './prowlerAnimData.ts';
@@ -47,14 +44,14 @@ const FRAMES = {
   w_2: PROWLER_ANIM_FRAMES[at('walk', 0.5)],
   w_3: PROWLER_ANIM_FRAMES[at('walk', 0.75)],
   run_0: PROWLER_ANIM_FRAMES[at('dash', 0)],
-  run_1: PROWLER_ANIM_FRAMES[at('dash', 1)],
+  run_1: PROWLER_ANIM_FRAMES[at('dash', 0.5)],
   viper: PROWLER_ANIM_FRAMES[at('crouch', 0.5)],
   leap: PROWLER_ANIM_FRAMES[at('air', 0.4)],
   land: PROWLER_ANIM_FRAMES[at('land', 0.5)],
   pound: PROWLER_ANIM_FRAMES[at('land', 0.8)],
   alert: PROWLER_ANIM_FRAMES[at('roar', 0.5)],
   screech: PROWLER_ANIM_FRAMES[at('roar', 0.6)],
-  swipe: PROWLER_ANIM_FRAMES[at('swipe', 0.5)],
+  swipe: PROWLER_ANIM_FRAMES[at('claw', 0.5)],
   bite: PROWLER_ANIM_FRAMES[at('bite', 0.5)],
   frenzy: PROWLER_ANIM_FRAMES[at('bite', 1)],
   tailwhip: PROWLER_ANIM_FRAMES[at('bite', 0)],
@@ -67,6 +64,8 @@ const FRAMES = {
 const DYING_S = 2.0;
 /** world units of prowling a full walk cycle covers */
 const WALK_CYCLE = 300;
+/** world units of running a full gallop stride covers */
+const RUN_CYCLE = 420;
 
 export const prowlerSprite = createPaintedBoss({
   param: 'prowler',
@@ -95,16 +94,19 @@ export const prowlerSprite = createPaintedBoss({
         const beat = b.phase >= 3 ? 0.22 : 0.3;
         const k = Math.floor(br.t / beat);
         const u = (br.t % beat) / beat;
-        return k % 2 === 0 ? at('swipe', u) : at('bite', u);
+        return k % 2 === 0 ? at('claw', u) : at('bite', u);
       }
-      return ping('dash', time, 12); // the dash: stretched out low
+      return loop('dash', time, 16); // the dash: a flat-out gallop
     }
     if (br.state === 'rec') {
       if (m?.pose === 'leap') return at('land', 0.35 + 0.65 * p(m.rec));
       return loop('idle', time, 10);
     }
     if (moving) {
-      if (b.phase >= 2) return ping('dash', dist / 40, 1);
+      if (b.phase >= 2) {
+        const f = PROWLER_CLIPS.dash;
+        return f[Math.floor((dist / RUN_CYCLE) * f.length) % f.length];
+      }
       const f = PROWLER_CLIPS.walk;
       return f[Math.floor((dist / WALK_CYCLE) * f.length) % f.length];
     }
